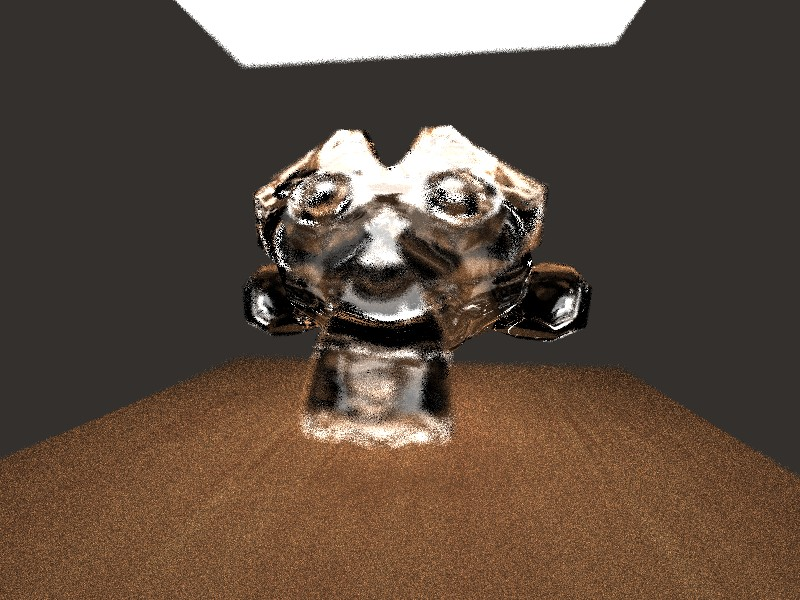
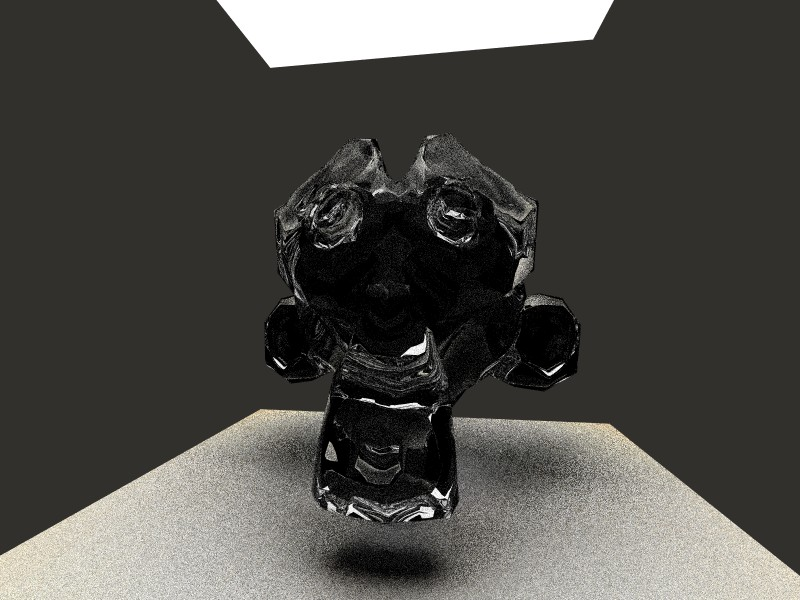
Fix Fresnel cosθ for rays hitting glass from the inside
RefractionShader computed the incidence angle as clamp(-dot(inDir, n), 0, 1),
which works for external hits (inDir opposes the outward normal, -dot > 0)
but collapses to 0 when a ray already inside the medium hits the back wall
(inDir aligns with the outward normal, -dot < 0 → clamped to 0). Schlick
then returned 1.0, so every internal hit was forced into the reflect
branch and refraction rays were trapped inside until MAX_TRACE_DEPTH or
Russian Roulette killed them — Suzanne rendered as a solid black blob no
matter the material colour.

refract() already handles the inside/outside case via its `nl` flip, so
the Fresnel path just needs the same symmetric treatment: fabsf(dot())
gives the correct cos θ for the incidence angle on either side of the
interface.

Also update suzanne.json to a clean glass setup (color 1.0, glossy 0,
refraction 1.0, refractionRatio 1.5) so the shader's Fresnel split is
not double-counted against an additional glossy lobe.

diff --git a/src/raygen/bsdf.cpp b/src/raygen/bsdf.cpp
@@ -128,8 +128,11 @@ color3 RefractionShader::shade(BSDFParam& param) {
 
     // Stochastic Fresnel: pick reflection or refraction per sample based on the
     // Schlick factor, so on average the blend is energy-conserving without needing
-    // two recursive tracePath calls (one branch = stack-safe).
-    const float cosTheta = clamp(-dot(inDir, normal), 0.0f, 1.0f);
+    // two recursive tracePath calls (one branch = stack-safe). Use |cos θ| so
+    // internal hits (ray travelling with the outward normal) get the same
+    // incidence angle as the mirrored external hit — otherwise fresnel collapses
+    // to 1.0 inside the medium and every ray is trapped by total reflection.
+    const float cosTheta = fabsf(dot(inDir, normal));
     const float fresnel = fresnelSchlick(cosTheta, m.refractionRatio);
 
     vec3 dir = (randomValue() < fresnel)